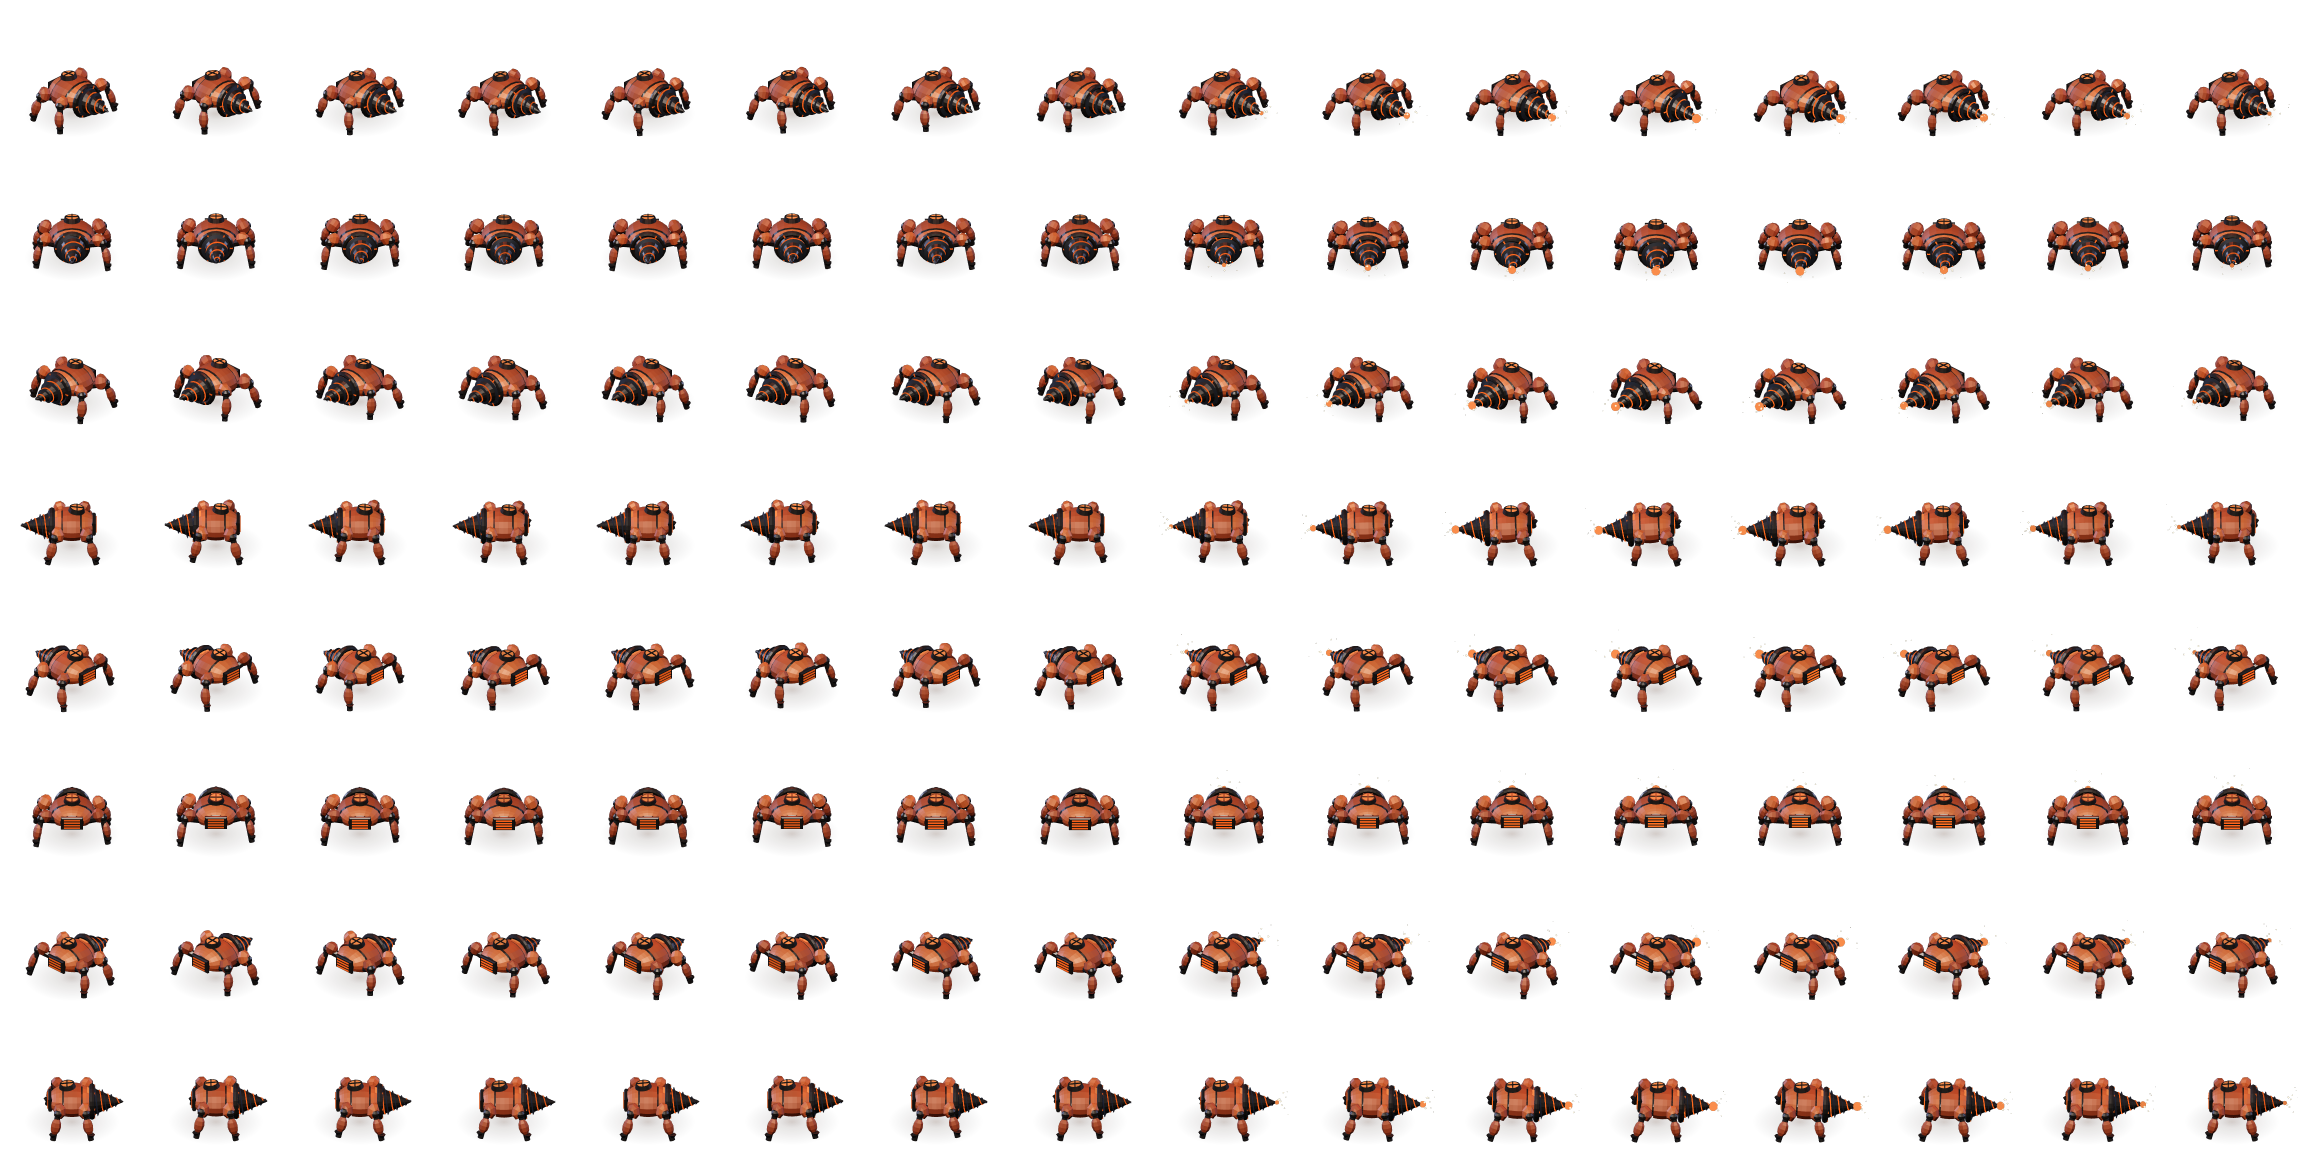
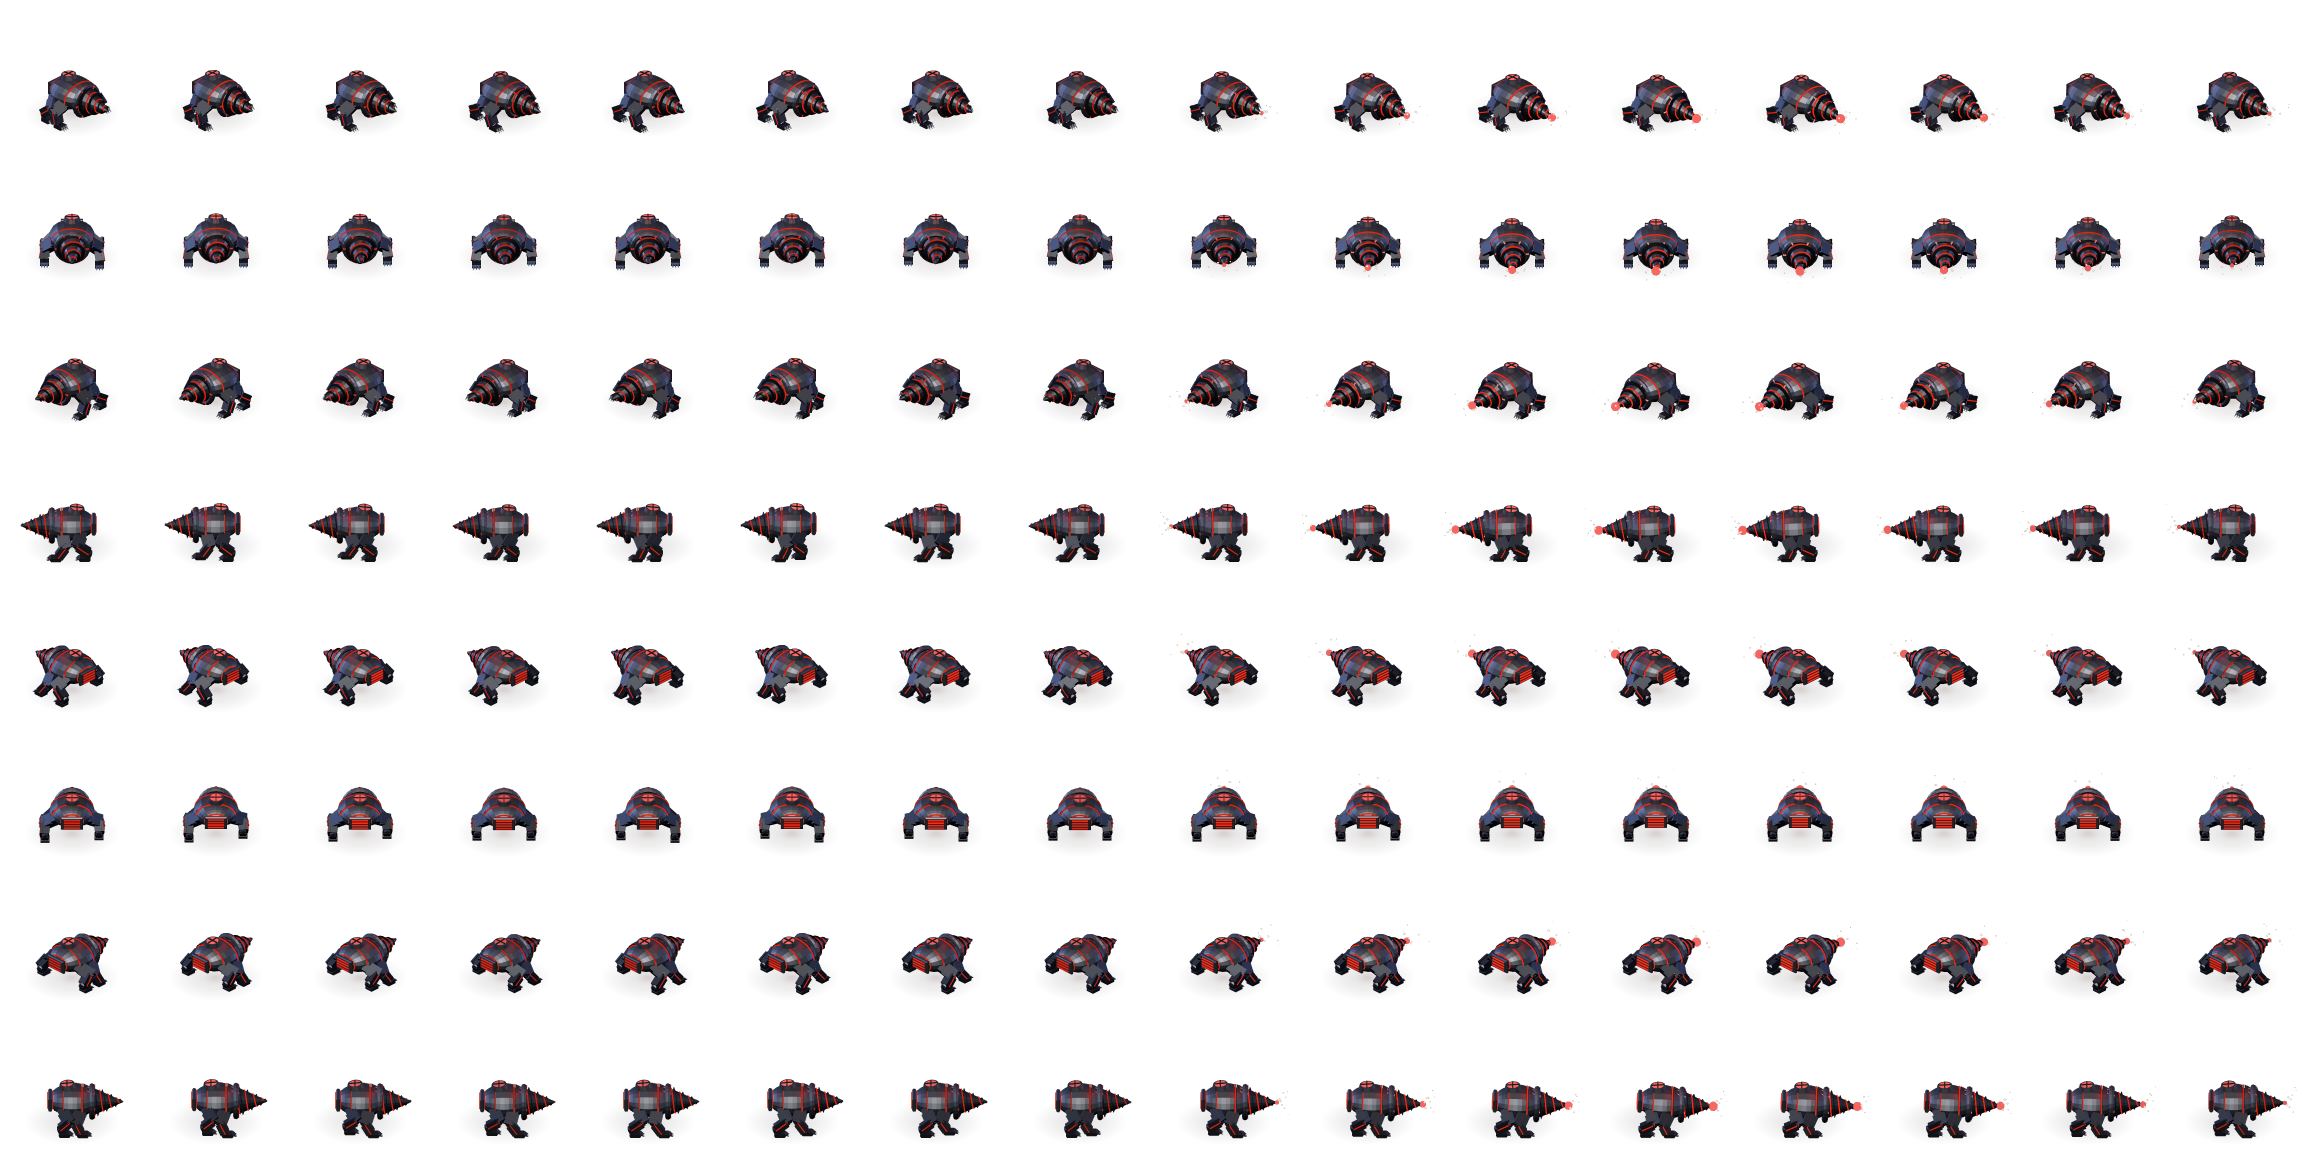
The Thermite Burrower is the black bear-like tank animal now (No. 855, approved)
ASKED (reviewing it): "a black body with red glowing accents", "Thick
armored arms", "More like a bear/zoids style tank animal direction. But
same sillouhette", "It will not have ears or any face", then "I like it".

- img/evo/thermite is baked from No. 855: a hunched black armoured digger
  with seams of red light, a red vent and grille, the drill glowing red
  in its groove, on a bear's thick armoured legs with clawed paws.
- The first design (No. 851) stays in the design file, baked by
  bake.js as thermite_old for comparison.
- Tests: evolution, landing page, boot.

Build 2026-10-28c.

Claude-Session: https://claude.ai/code/session_0115DZYYhipQqSk6LHvQcEfz

diff --git a/game.html b/game.html
@@ -1573,12 +1573,12 @@ function _showError(msg) {
 // Script files that failed to download. A missing file raises no error of its
 // own — only the "Can't find variable" from whatever needed it — so the load
 // failure is caught here, on its way down (capture phase).
-// THE BUILD. Every script URL below carries ?v=2026-10-28b, so a new deploy
+// THE BUILD. Every script URL below carries ?v=2026-10-28c, so a new deploy
 // fetches a matching set: REPORTED, an iPad ran the new js/indexart.js against
 // an old cached js/config.js ("Attempted to assign to readonly property").
 // Change this, the ?v= on every script tag and BUILD_VERSION in js/config.js
 // together (tests/boot.js checks they agree).
-window.__PAGE_BUILD = "2026-10-28b";
+window.__PAGE_BUILD = "2026-10-28c";
 window.__bootFailed = [];
 window.addEventListener("error", function (e) {
     var t = e && e.target;
@@ -1614,71 +1614,71 @@ if (!CanvasRenderingContext2D.prototype.roundRect) {
 </script>
 
 <!-- Game scripts — load order matters (globals first, logic last) -->
-<script src="js/config.js?v=2026-10-28b"></script>
-<script src="js/icons.js?v=2026-10-28b"></script>
-<script src="js/uikit.js?v=2026-10-28b"></script>
-<script src="js/traits.js?v=2026-10-28b"></script>
-<script src="js/elements.js?v=2026-10-28b"></script>
-<script src="js/combat.js?v=2026-10-28b"></script>
-<script src="js/species.js?v=2026-10-28b"></script>
-<script src="js/levels.js?v=2026-10-28b"></script>
-<script src="js/status.js?v=2026-10-28b"></script>
-<script src="js/helpers.js?v=2026-10-28b"></script>
-<script src="js/predator.js?v=2026-10-28b"></script>
-<script src="js/abilities.js?v=2026-10-28b"></script>
-<script src="js/commands.js?v=2026-10-28b"></script>
-<script src="js/npc.js?v=2026-10-28b"></script>
-<script src="js/draw.js?v=2026-10-28b"></script>
-<script src="js/beetle3d.js?v=2026-10-28b"></script>
-<script src="js/bugs3d.js?v=2026-10-28b"></script>
-<script src="js/settings.js?v=2026-10-28b"></script>
-<script src="js/alarm.js?v=2026-10-28b"></script>
-<script src="js/drops.js?v=2026-10-28b"></script>
-<script src="js/clone.js?v=2026-10-28b"></script>
-<script src="js/bonds.js?v=2026-10-28b"></script>
-<script src="js/evolution.js?v=2026-10-28b"></script>
-<script src="js/hdsprites.js?v=2026-10-28b"></script>
-<script src="js/firebombs.js?v=2026-10-28b"></script>
-<script src="js/moves.js?v=2026-10-28b"></script>
-<script src="js/hudgems.js?v=2026-10-28b"></script>
-<script src="js/commandcenter.js?v=2026-10-28b"></script>
-<script src="js/unitinfo.js?v=2026-10-28b"></script>
-<script src="js/infodex.js?v=2026-10-28b"></script>
-<script src="js/classes.js?v=2026-10-28b"></script>
-<script src="js/playergear.js?v=2026-10-28b"></script>
-<script src="js/inventory.js?v=2026-10-28b"></script>
-<script src="js/weapons.js?v=2026-10-28b"></script>
-<script src="js/mutator.js?v=2026-10-28b"></script>
-<script src="js/specimen.js?v=2026-10-28b"></script>
-<script src="js/serum.js?v=2026-10-28b"></script>
-<script src="js/technomancer.js?v=2026-10-28b"></script>
-<script src="js/stations.js?v=2026-10-28b"></script>
-<script src="js/facilityportals.js?v=2026-10-28b"></script>
-<script src="js/tutorial.js?v=2026-10-28b"></script>
-<script src="js/facilitymap.js?v=2026-10-28b"></script>
-<script src="js/facilitygrow.js?v=2026-10-28b"></script>
-<script src="js/facility.js?v=2026-10-28b"></script>
-<script src="js/attract.js?v=2026-10-28b"></script>
-<script src="js/facilitysave.js?v=2026-10-28b"></script>
-<script src="js/facilityplay.js?v=2026-10-28b"></script>
-<script src="js/facilitydecor.js?v=2026-10-28b"></script>
-<script src="js/propatlas.js?v=2026-10-28b"></script>
-<script src="js/propsprites.js?v=2026-10-28b"></script>
-<script src="js/facilitystyle.js?v=2026-10-28b"></script>
-<script src="js/facilitystyleall.js?v=2026-10-28b"></script>
-<script src="js/facilitynet.js?v=2026-10-28b"></script>
-<script src="js/facilityspawn.js?v=2026-10-28b"></script>
-<script src="js/followerspots.js?v=2026-10-28b"></script>
-<script src="js/party.js?v=2026-10-28b"></script>
-<script src="js/squadfly.js?v=2026-10-28b"></script>
-<script src="js/facilitytutorial.js?v=2026-10-28b"></script>
-<script src="js/gunfire.js?v=2026-10-28b"></script>
-<script src="js/targeting.js?v=2026-10-28b"></script>
-<script src="js/toolbox.js?v=2026-10-28b"></script>
-<script src="js/mixtool.js?v=2026-10-28b"></script>
-<script src="js/radialmenu.js?v=2026-10-28b"></script>
-<script src="js/input.js?v=2026-10-28b"></script>
-<script src="js/game.js?v=2026-10-28b"></script>
+<script src="js/config.js?v=2026-10-28c"></script>
+<script src="js/icons.js?v=2026-10-28c"></script>
+<script src="js/uikit.js?v=2026-10-28c"></script>
+<script src="js/traits.js?v=2026-10-28c"></script>
+<script src="js/elements.js?v=2026-10-28c"></script>
+<script src="js/combat.js?v=2026-10-28c"></script>
+<script src="js/species.js?v=2026-10-28c"></script>
+<script src="js/levels.js?v=2026-10-28c"></script>
+<script src="js/status.js?v=2026-10-28c"></script>
+<script src="js/helpers.js?v=2026-10-28c"></script>
+<script src="js/predator.js?v=2026-10-28c"></script>
+<script src="js/abilities.js?v=2026-10-28c"></script>
+<script src="js/commands.js?v=2026-10-28c"></script>
+<script src="js/npc.js?v=2026-10-28c"></script>
+<script src="js/draw.js?v=2026-10-28c"></script>
+<script src="js/beetle3d.js?v=2026-10-28c"></script>
+<script src="js/bugs3d.js?v=2026-10-28c"></script>
+<script src="js/settings.js?v=2026-10-28c"></script>
+<script src="js/alarm.js?v=2026-10-28c"></script>
+<script src="js/drops.js?v=2026-10-28c"></script>
+<script src="js/clone.js?v=2026-10-28c"></script>
+<script src="js/bonds.js?v=2026-10-28c"></script>
+<script src="js/evolution.js?v=2026-10-28c"></script>
+<script src="js/hdsprites.js?v=2026-10-28c"></script>
+<script src="js/firebombs.js?v=2026-10-28c"></script>
+<script src="js/moves.js?v=2026-10-28c"></script>
+<script src="js/hudgems.js?v=2026-10-28c"></script>
+<script src="js/commandcenter.js?v=2026-10-28c"></script>
+<script src="js/unitinfo.js?v=2026-10-28c"></script>
+<script src="js/infodex.js?v=2026-10-28c"></script>
+<script src="js/classes.js?v=2026-10-28c"></script>
+<script src="js/playergear.js?v=2026-10-28c"></script>
+<script src="js/inventory.js?v=2026-10-28c"></script>
+<script src="js/weapons.js?v=2026-10-28c"></script>
+<script src="js/mutator.js?v=2026-10-28c"></script>
+<script src="js/specimen.js?v=2026-10-28c"></script>
+<script src="js/serum.js?v=2026-10-28c"></script>
+<script src="js/technomancer.js?v=2026-10-28c"></script>
+<script src="js/stations.js?v=2026-10-28c"></script>
+<script src="js/facilityportals.js?v=2026-10-28c"></script>
+<script src="js/tutorial.js?v=2026-10-28c"></script>
+<script src="js/facilitymap.js?v=2026-10-28c"></script>
+<script src="js/facilitygrow.js?v=2026-10-28c"></script>
+<script src="js/facility.js?v=2026-10-28c"></script>
+<script src="js/attract.js?v=2026-10-28c"></script>
+<script src="js/facilitysave.js?v=2026-10-28c"></script>
+<script src="js/facilityplay.js?v=2026-10-28c"></script>
+<script src="js/facilitydecor.js?v=2026-10-28c"></script>
+<script src="js/propatlas.js?v=2026-10-28c"></script>
+<script src="js/propsprites.js?v=2026-10-28c"></script>
+<script src="js/facilitystyle.js?v=2026-10-28c"></script>
+<script src="js/facilitystyleall.js?v=2026-10-28c"></script>
+<script src="js/facilitynet.js?v=2026-10-28c"></script>
+<script src="js/facilityspawn.js?v=2026-10-28c"></script>
+<script src="js/followerspots.js?v=2026-10-28c"></script>
+<script src="js/party.js?v=2026-10-28c"></script>
+<script src="js/squadfly.js?v=2026-10-28c"></script>
+<script src="js/facilitytutorial.js?v=2026-10-28c"></script>
+<script src="js/gunfire.js?v=2026-10-28c"></script>
+<script src="js/targeting.js?v=2026-10-28c"></script>
+<script src="js/toolbox.js?v=2026-10-28c"></script>
+<script src="js/mixtool.js?v=2026-10-28c"></script>
+<script src="js/radialmenu.js?v=2026-10-28c"></script>
+<script src="js/input.js?v=2026-10-28c"></script>
+<script src="js/game.js?v=2026-10-28c"></script>
 <script>
 // ── BOOT CHECK ────────────────────────────────────────────
 // Every file above must have arrived and run before init.js starts the game.
@@ -1733,7 +1733,7 @@ if (!CanvasRenderingContext2D.prototype.roundRect) {
     document.body.appendChild(d);
 })();
 </script>
-<script src="js/init.js?v=2026-10-28b"></script>
+<script src="js/init.js?v=2026-10-28c"></script>
 
 </body>
 </html>

diff --git a/design/evolutions/bake.js b/design/evolutions/bake.js
@@ -27,10 +27,11 @@ const JOBS = [
   // ice IGLOO SKATER (it glides; its action is a spin with a ring of frost).
   { id: 'gooproxy', form: 853, color: '#9933ff', idleAct: 0, action: [0, 1.0], pulse: true, glowNormal: true },
   { id: 'gooproxy_old', form: 850, color: '#9933ff', idleAct: 0, action: [0, 1.0], pulse: true, glowNormal: true },   // (the first Goo Proxy, before the review)
-  { id: 'thermite', form: 851, color: '#ff3300', idleAct: 0, action: [0, 1.0], pulse: true, glowNormal: true },
+  { id: 'thermite', form: 855, color: '#ff3300', idleAct: 0, action: [0, 1.0], pulse: true, glowNormal: true },   // (No. 855, approved on the user's review: the bear-like black tank animal)
+  { id: 'thermite_old', form: 851, color: '#ff3300', idleAct: 0, action: [0, 1.0], pulse: true, glowNormal: true },   // (the first Thermite Burrower, before the review)
   // No. 854, the Thermite Burrower in black with red accents (the user's ask on 851): a candidate until approved.
   { id: 'thermite_black', form: 854, color: '#ff3300', idleAct: 0, action: [0, 1.0], pulse: true, glowNormal: true },
-  // No. 855, the same as a bear-like tank animal (the user's ask on 854): a candidate until approved.
+  // No. 855 is the game's Thermite Burrower now (above); thermite_bear bakes the same, for comparison.
   { id: 'thermite_bear', form: 855, color: '#ff3300', idleAct: 0, action: [0, 1.0], pulse: true, glowNormal: true },
   { id: 'igloo', form: 852, color: '#7fd6ff', idleAct: 0, action: [0, 1.0], pulse: true, glowNormal: true },
   // Nos. 831-836, the clear glass egg on six dark metal leg sets: candidates.

diff --git a/js/evolution.js b/js/evolution.js
@@ -194,8 +194,9 @@ const EVOLUTIONS = {
     // each iris with a slit of a pupil, a wide smile. It breathes and looks about, so the sheet carries its own light.
     gooproxy:{ id: "gooproxy", name: "GOO PROXY", element: "flux", role: "camper", sheet: "img/evo/gooproxy.png",
               cell: 144, anchor: [72, 114.2], core: [72, 85.1], noGlow: true, color: "#bb66ff" },
-    // The FIRE TECHNICIAN, design No. 851 (the "THERMITE BU…" sheet, its name cut off on it): a hunched armoured digger on four plated legs, a cone drill
-    // for a nose glowing in its grooves, a hot vent on its back. The drill turns, so the sheet carries its own light.
+    // The FIRE TECHNICIAN, design No. 855 (the "THERMITE BU…" sheet, its name cut off on it, then the user's review: "a black body with red glowing accents",
+    // "thick armored arms", "more like a bear/zoids style tank animal ... same silhouette", "no ears or any face"): a hunched black armoured digger with seams of
+    // red light and a cone drill for a nose glowing red in its groove, on a bear's thick armoured legs with clawed paws. The drill turns, so the sheet carries its own light.
     thermite:{ id: "thermite", name: "THERMITE BURROWER", element: "fire", role: "camper", sheet: "img/evo/thermite.png",
               cell: 144, anchor: [72, 114.2], core: [72, 74.8], noGlow: true, color: "#ff5a1f" },
     // The TOXIC TECHNICIAN, design No. 870 (the user's card, "BLIGHT SPIDER · TOXIC DEPLOY"): a glass tank of bubbling toxin with black bands and a black front cap

diff --git a/js/config.js b/js/config.js
@@ -6,7 +6,7 @@
 
 // The build this file belongs to — the same as window.__PAGE_BUILD and the
 // ?v= on every script tag in game.html (the boot check compares them).
-const BUILD_VERSION = "2026-10-28b";
+const BUILD_VERSION = "2026-10-28c";
 
 // ── GLOBAL ERROR DISPLAY ──────────────────────────────────
 // Lives in game.html (_showError), before any file loads. This file used to
